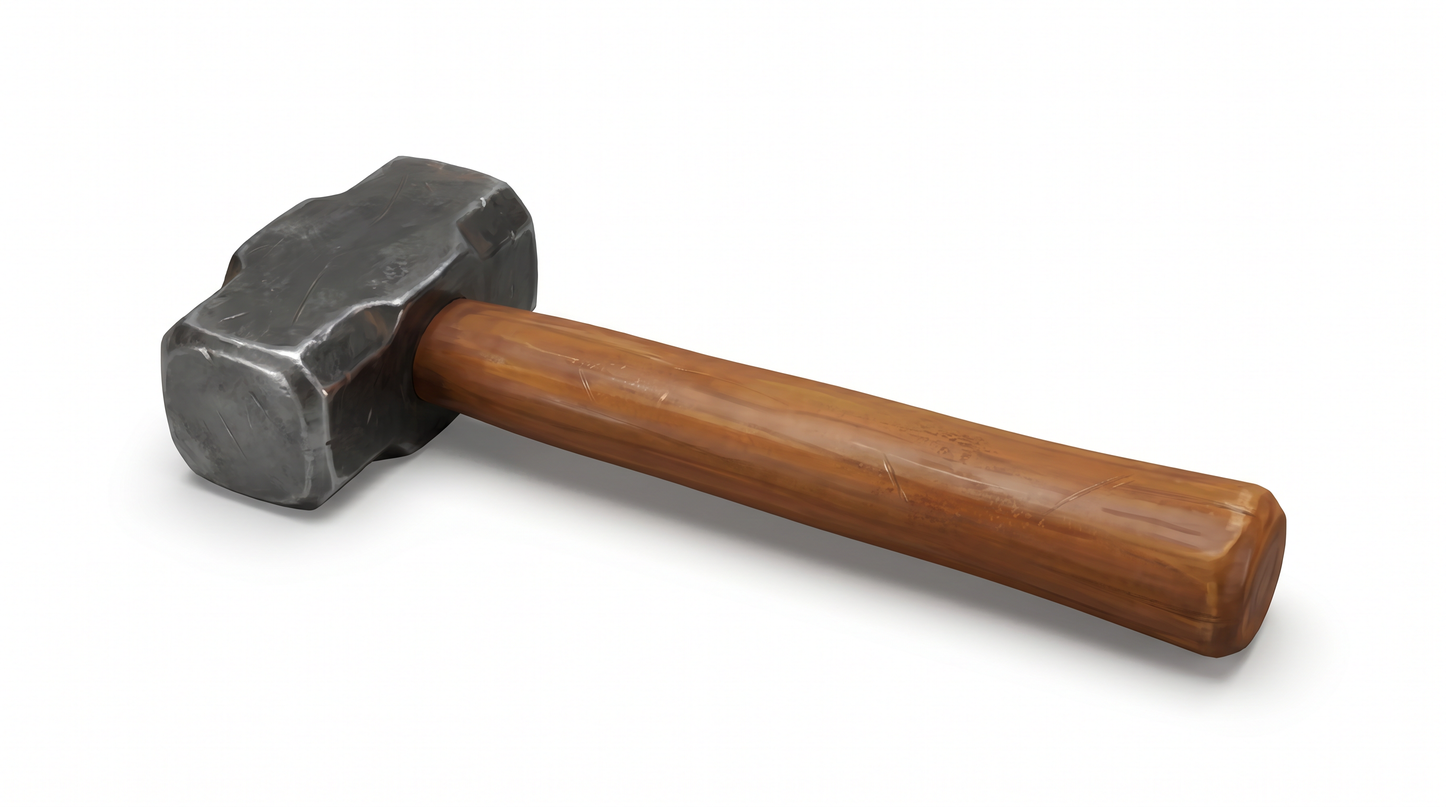
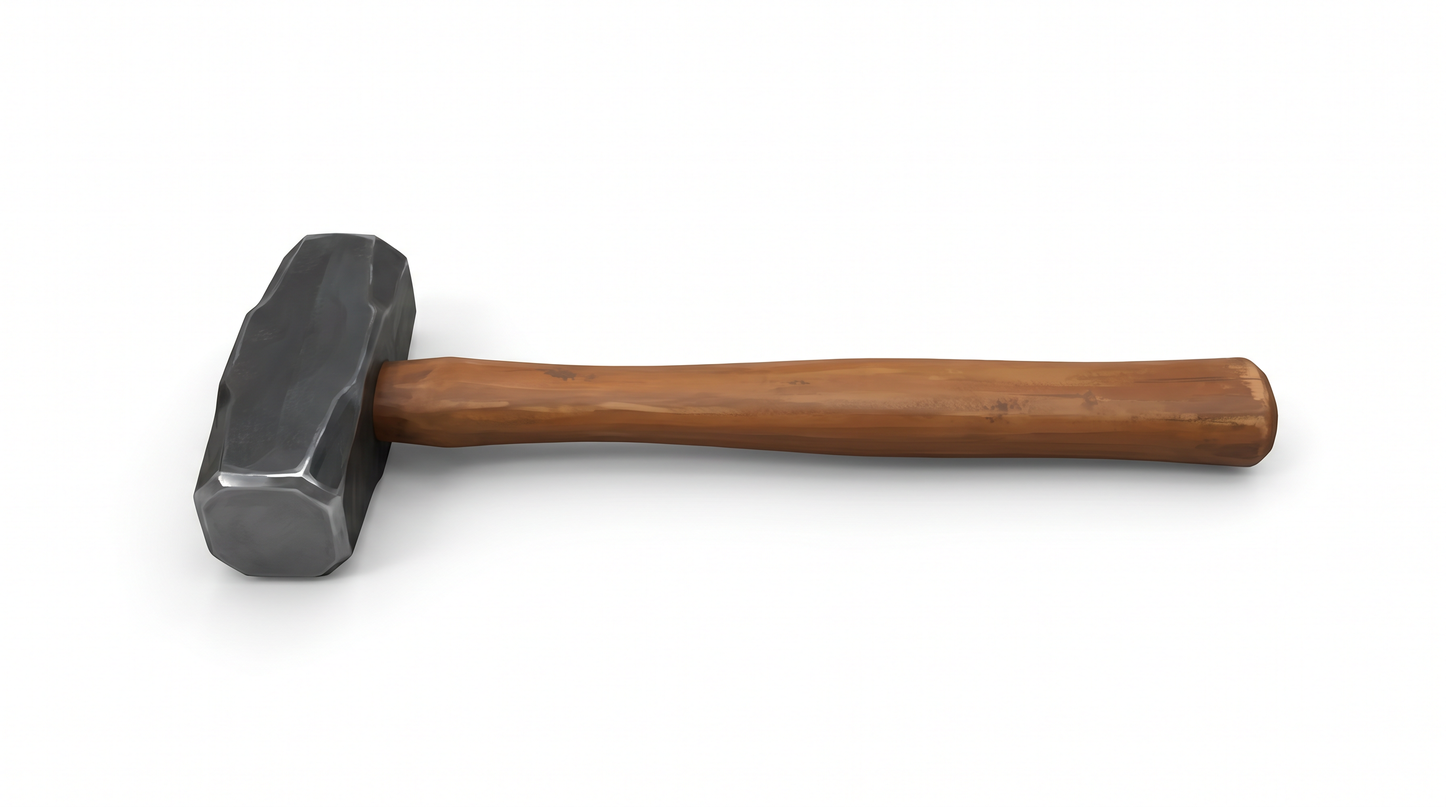
Repair v3: plank in 3 views (top/side/3-4), classic engineer hammer

Changed region(s): [[0.0938, 0.1875, 0.9062, 0.875]]

diff --git a/props.html b/props.html
@@ -79,13 +79,15 @@
       <figure><img src="assets/PROPS/r02-gorilla-tape-texture.png" alt="Gorilla tape tileable texture for Unity" /><figcaption>Tileable texture · top-down · Unity material</figcaption></figure>
     </div>
 
-    <h3 class="prop-section__sub">Wood plank</h3>
+    <h3 class="prop-section__sub">Wood plank · 1.5m × 30cm × 3cm</h3>
     <p class="prop-section__note">
-      Weathered pine plank for nailing over fuselage holes. Includes a couple of
-      bent rusty nails half-driven in.
+      Weathered pine plank for nailing over fuselage holes. Three views so the
+      modeler can read the long wide-format proportions clearly.
     </p>
-    <div class="prop-refs prop-refs--single">
-      <figure><img src="assets/PROPS/r03-wood-plank.png" alt="Wood plank with bent nails" /><figcaption>3/4 from above · ~80cm</figcaption></figure>
+    <div class="prop-refs">
+      <figure><img src="assets/PROPS/r03a-plank-top.png" alt="Wood plank top-down" /><figcaption>Top-down · full 5:1</figcaption></figure>
+      <figure><img src="assets/PROPS/r03b-plank-side.png" alt="Wood plank side profile" /><figcaption>Side profile · 3cm thick</figcaption></figure>
+      <figure><img src="assets/PROPS/r03c-plank-three-quarter.png" alt="Wood plank 3/4" /><figcaption>3/4 high angle</figcaption></figure>
     </div>
 
     <h3 class="prop-section__sub">Hammer</h3>

diff --git a/generate_props_repair_v3.py b/generate_props_repair_v3.py
@@ -1,0 +1,110 @@
+"""Repair v3:
+- Plank: 3 views (top, side, 3/4) so the 1.5m x 30cm proportions read clearly
+- Hammer: same double-faced concept but cleaner, more classic shape"""
+import os, sys, threading, time
+sys.path.insert(0, os.path.dirname(os.path.abspath(__file__)))
+from generate_gameplay import NB, NB_BODY
+from generate_props import run_to_props
+
+ISOLATE = (
+    "\n\nABSOLUTE OUTPUT RULES — these override anything else:\n"
+    "- Output a STILL-LIFE PRODUCT PHOTO of the subject only.\n"
+    "- PURE WHITE SEAMLESS BACKGROUND. Subject centered. Soft contact shadow under it.\n"
+    "- NO hands, NO arms, NO fingers, NO people, NO characters, NO creatures.\n"
+    "- NO airplane, NO airplane interior, NO cabin, NO hangar, NO outdoor scene.\n"
+    "- NO additional props in the frame.\n"
+    "- NO border frame, NO inset card, NO 'BANANA AIRWAYS' text overlay on the image edges.\n"
+    "- NO first-person POV framing. The camera is a tripod product camera.\n"
+    "- 16:9 ratio. Subject fills ~60-80% of the frame, centered.\n"
+    "- Painted-3D illustration style with semi-realistic textures, slightly cartoony "
+    "proportions, soft global illumination."
+)
+
+PLANK_DESCRIPTION = (
+    "A single rough wooden plank, 1.5 METRES long and 30 CM wide and about "
+    "3 cm thick — clearly wide-format proportions: the plank is approximately "
+    "5 times longer than it is wide. Weathered pine, warm light-brown tone "
+    "with visible grain running lengthwise, a couple of dark knots, splintered "
+    "short edges, a small crack near one end. Two bent rusty nails are "
+    "half-driven into the top surface near the two short ends. Same painted-3D "
+    "weathered aesthetic as the previous version."
+)
+
+JOBS = [
+    {
+        "filename": "r03a-plank-top.png",
+        "endpoint": NB, "extra": dict(NB_BODY, resolution="2K"),
+        "prompt": (
+            PLANK_DESCRIPTION + "\n\n"
+            "VIEW: strict TOP-DOWN orthographic view, camera straight overhead "
+            "looking directly down at the plank. The plank lies flat and fills "
+            "the full width of the frame horizontally — the full 1.5m length "
+            "spans almost the entire 16:9 frame from left to right, showing the "
+            "true 5:1 wide-format proportions unambiguously. No perspective, no "
+            "foreshortening." + ISOLATE
+        ),
+    },
+    {
+        "filename": "r03b-plank-side.png",
+        "endpoint": NB, "extra": dict(NB_BODY, resolution="2K"),
+        "prompt": (
+            PLANK_DESCRIPTION + "\n\n"
+            "VIEW: PURE SIDE-PROFILE elevation view, camera at the same height "
+            "as the plank, looking straight at its long edge. The plank runs "
+            "horizontally across the entire frame from left to right as a long "
+            "thin horizontal band, showing its full 1.5m length and 3 cm "
+            "thickness clearly. The two bent rusty nails are visible sticking "
+            "out from the top surface in profile. No perspective, no "
+            "foreshortening." + ISOLATE
+        ),
+    },
+    {
+        "filename": "r03c-plank-three-quarter.png",
+        "endpoint": NB, "extra": dict(NB_BODY, resolution="2K"),
+        "prompt": (
+            PLANK_DESCRIPTION + "\n\n"
+            "VIEW: 3/4 perspective from HIGH FRONT ANGLE (camera elevated "
+            "looking down at ~45 degrees), so the wide-format proportions stay "
+            "readable and don't get crushed by low-angle foreshortening. The "
+            "plank lies flat, oriented diagonally across the frame with the "
+            "long axis from lower-left to upper-right. Both nails visible on "
+            "the top surface." + ISOLATE
+        ),
+    },
+    {
+        "filename": "r04-hammer.png",
+        "endpoint": NB, "extra": dict(NB_BODY, resolution="2K"),
+        "prompt": (
+            "A classic clean ENGINEER'S CLUB HAMMER — traditional simple shape, "
+            "no irregular bumps or forging marks. The wooden handle is straight "
+            "and gently tapered, warm brown wood with a smooth surface, "
+            "slightly worn from use. The metal head is a clean SYMMETRICAL "
+            "forged dark steel block, RECTANGULAR / slightly hexagonal cross-"
+            "section, with TWO FLAT POLISHED STRIKING FACES — one at each end. "
+            "The head is perfectly symmetrical along its long axis so the "
+            "hammer can hit either way. Absolutely NO claw, NO nail-puller, "
+            "NO peen, NO curved end — just two flat hitting faces. Looks like "
+            "a textbook club hammer / small sledge / stone-mason's hammer. "
+            "Clean classic industrial shape, nothing fantasy, nothing weird. "
+            "3/4 side perspective, hammer laid flat with the head to the left, "
+            "handle extending to the right." + ISOLATE
+        ),
+    },
+]
+
+
+def main():
+    print(f"Repair v3: {len(JOBS)} jobs (3 plank views + classic hammer)\n")
+    results = {}
+    threads = [threading.Thread(target=run_to_props, args=(j, results), daemon=True) for j in JOBS]
+    for t in threads:
+        t.start(); time.sleep(0.3)
+    for t in threads:
+        t.join()
+    print("\nDONE:")
+    for j in JOBS:
+        print(f"  {j['filename']:40s} {results.get(j['filename'], ('missing',))[0]}")
+
+
+if __name__ == "__main__":
+    main()

diff --git a/generate_props_repair_v3_side.py b/generate_props_repair_v3_side.py
@@ -1,0 +1,59 @@
+"""Retry r03b plank side view — bypass STYLE so the Banana Airways context
+isn't injected. Side profile of a long thin plank lacks strong subject
+anchor so STYLE override-ed the prompt last time."""
+import os, sys, urllib.request
+sys.path.insert(0, os.path.dirname(os.path.abspath(__file__)))
+from generate_gameplay import BASE, GPT, GPT_BODY, http_json, poll
+from generate_props import PROPS_OUT
+
+PROMPT = (
+    "Side-profile product photograph of a single rough wooden plank, 1.5 "
+    "metres long and 30 cm wide and 3 cm thick. The plank is photographed "
+    "from a pure horizontal side view (camera at the same height as the "
+    "plank, looking straight at its long edge). The plank runs horizontally "
+    "across the entire frame from left to right — like a long thin "
+    "horizontal bar — clearly showing the full 1.5 m length and the 3 cm "
+    "thickness as a slender horizontal band.\n\n"
+    "The plank is weathered pine, warm light-brown tone, dark knots visible "
+    "along its top edge, splintered short ends, with two bent rusty nails "
+    "sticking out from the top surface (the nails are visible above the "
+    "plank's top profile line). Painted-3D illustration style, semi-"
+    "realistic textures.\n\n"
+    "ABSOLUTE OUTPUT RULES:\n"
+    "- PURE WHITE SEAMLESS BACKGROUND. Subject centered. Soft contact "
+    "shadow under the plank.\n"
+    "- Strict horizontal side elevation, NO perspective, NO foreshortening.\n"
+    "- The plank fills almost the full width of the 16:9 frame.\n"
+    "- NO hands, NO arms, NO people, NO characters, NO creatures.\n"
+    "- NO airplane, NO cabin, NO hangar, NO outdoor scene, NO environment.\n"
+    "- NO other props in the frame.\n"
+    "- NO text, NO logo, NO label, NO writing."
+)
+
+FILENAME = "r03b-plank-side.png"
+
+
+def main():
+    body = {"prompt": PROMPT, **GPT_BODY}
+    print(f"  [{FILENAME}] submitting (no STYLE, GPT-Image-2)", flush=True)
+    sub = http_json("POST", BASE + GPT, body)
+    if sub.get("_error"):
+        print(f"  SUBMIT FAIL {sub['status']}: {sub['body'][:300]}"); return
+    job_id = sub.get("job_id")
+    print(f"  [{FILENAME}] queued as {job_id}", flush=True)
+    final = poll(job_id)
+    status = final.get("status") if final else "unknown"
+    if status != "completed":
+        print(f"  [{FILENAME}] FAIL status={status}"); return
+    urls = final.get("result", {}).get("urls", [])
+    if not urls:
+        print(f"  no urls"); return
+    out = os.path.join(PROPS_OUT, FILENAME)
+    req = urllib.request.Request(urls[0])
+    with urllib.request.urlopen(req, timeout=120) as r, open(out, "wb") as f:
+        f.write(r.read())
+    print(f"  [{FILENAME}] OK saved -> {out}", flush=True)
+
+
+if __name__ == "__main__":
+    main()
